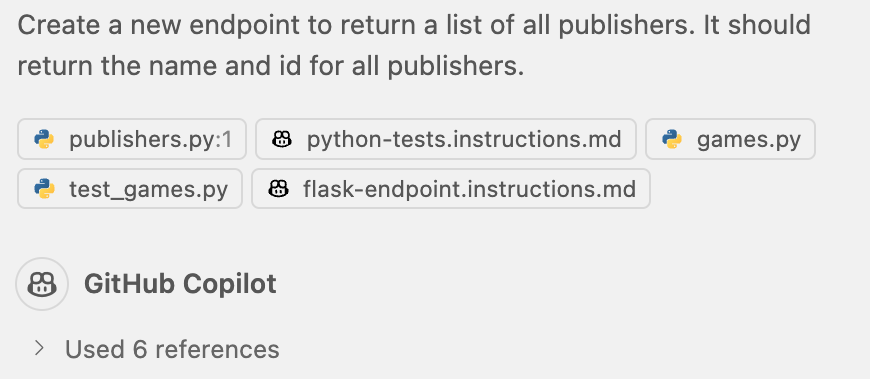
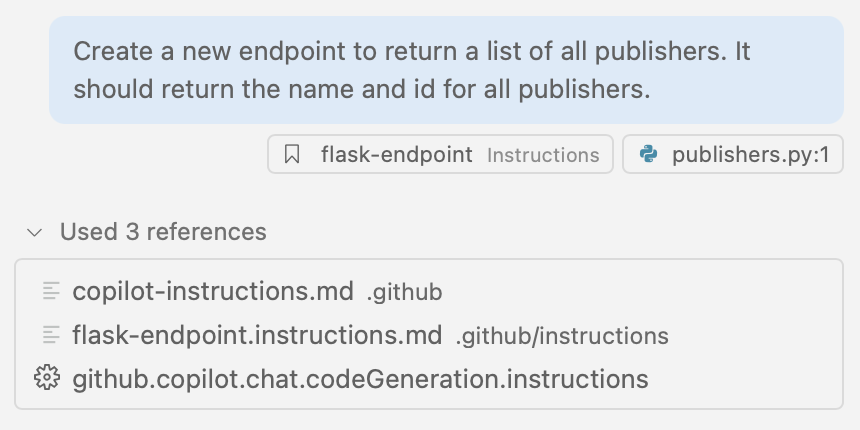
Update backtick to bold. Add a note on using agent mode if encountering issues. Update screenshot to align with recent UI updates.

diff --git a/docs/3-custom-instructions.md b/docs/3-custom-instructions.md
@@ -7,7 +7,7 @@ Context is key across many aspects of life, and when working with generative AI.
 
 In this exercise, you will learn how to:
 
-- provide Copilot with project-specific context, coding guidelines and documentation standards using custom instructions `.github/copilot-instructions.md`.
+- provide Copilot with project-specific context, coding guidelines and documentation standards using custom instructions **.github/copilot-instructions.md**.
 - use instruction files to guide Copilot for repetitive or templated tasks.
 - implement both repository-wide instructions and task-specific instructions.
 
@@ -39,8 +39,8 @@ Custom instructions allow you to provide context and preferences to Copilot chat
 
 There are two types of instructions files:
 
-- `.github/copilot-instructions.md`, a single instruction file sent to Copilot for **every** chat prompt. This file should contain project-level information, context which is relevant for every message. This could include the tech stack being used, an overview of what's being built, or global guidance for Copilot.
-- `.instructions.md` can be created for specific tasks or file types. You can use `.instructions.md` files to provide guidelines for particular languages (like Python or TypeScript), or for tasks like creating a React component or a new instance of a repository pattern.
+- **.github/copilot-instructions.md**, a single instruction file sent to Copilot for **every** chat prompt. This file should contain project-level information, context which is relevant for every message. This could include the tech stack being used, an overview of what's being built, or global guidance for Copilot.
+- **.instructions.md** can be created for specific tasks or file types. You can use **.instructions.md** files to provide guidelines for particular languages (like Python or TypeScript), or for tasks like creating a React component or a new instance of a repository pattern.
 
 > [!NOTE]
 > When working in your IDE, instructions files are only used for code generation in Copilot Chat, and not used for code completions.
@@ -75,12 +75,12 @@ To see the impact of custom instructions, we will start by sending a prompt with
 
 ## Add global standards to copilot-instructions.md
 
-As highlighted previously, `copilot-instructions.md` is designed to provide project-level information to Copilot. Let's ensure global coding standards are documented to improve code suggestions from Copilot chat.
+As highlighted previously, **copilot-instructions.md** is designed to provide project-level information to Copilot. Let's ensure global coding standards are documented to improve code suggestions from Copilot chat.
 
 1. Return to your codespace.
 2. Open **.github/copilot-instructions.md**.
-3. Explore the file, noting the brief description of the project and sections for `Code standards`, `Scripts` and `GitHub Actions Workflows`. These are applicable to any interactions we'd have with Copilot, are robust, and provide clear guidance on what we're doing and how we want to accomplish it.
-4. Locate the `### Global language guidance` section, which should be around like 16. Note how it contains a note to use type hints. That's why we saw those in the code generated previously.
+3. Explore the file, noting the brief description of the project and sections for **Code standards**, **Scripts** and **GitHub Actions Workflows**. These are applicable to any interactions we'd have with Copilot, are robust, and provide clear guidance on what we're doing and how we want to accomplish it.
+4. Locate the **Global language guidance** section, which should be around like 16. Note how it contains a note to use type hints. That's why we saw those in the code generated previously.
 5. Add the following lines of markdown right below the note about type hints to instruct Copilot to add comment headers to files and docstrings:
 
    ```markdown
@@ -127,12 +127,12 @@ From this section, you explored how the custom instructions file has provided Co
 
 ## Instruction files for tasks
 
-Coding is often repetitive, with developers performing similar tasks on a regular basis. Copilot is wonderful for allowing you to offload these types of tasks. But these types of tasks, like adding an endpoint, creating a component, or adding a new service pattern implementation often require a particular template or structure to be followed. Instruction files allow you to provide specific requirements for these types of tasks. They can be added manually when using Copilot Chat, or can have an `applyTo:` tag added to the top of the file to have Copilot automatically use them for specific files.
+Coding is often repetitive, with developers performing similar tasks on a regular basis. Copilot is wonderful for allowing you to offload these types of tasks. But these types of tasks, like adding an endpoint, creating a component, or adding a new service pattern implementation often require a particular template or structure to be followed. Instruction files allow you to provide specific requirements for these types of tasks. They can be added manually when using Copilot Chat, or can have an **applyTo:** tag added to the top of the file to have Copilot automatically use them for specific files.
 
 We want to create a new endpoint to list all publishers, and to follow the same pattern we used for the existing [games endpoints][games-endpoints], and to create tests which follow the same pattern as the existing [games endpoints tests][games-tests]. An instruction file has already been created; let's explore it and see the difference in code it generates.
 
 1. Open **.github/instructions/python-tests.instructions.md**.
-2. Note the `applyTo:` section at the top, which contains a filter for all files in the **server/tests** directory which start with **test_** and have a **.py** extension. Whenever Copilot Chat interacts with a file which matches this pattern it will automatically use the guidance provided in this file.
+2. Note the **applyTo:** section at the top, which contains a filter for all files in the **server/tests** directory which start with **test_** and have a **.py** extension. Whenever Copilot Chat interacts with a file which matches this pattern it will automatically use the guidance provided in this file.
 3. Note the file contains guidance about how tests should be created, and how to utilize SQLite when testing database functionality.
 4. Open **.github/instructions/flask-endpoint.instructions.md**.
 5. Review the following entries inside the instruction file, which includes:
@@ -143,9 +143,12 @@ We want to create a new endpoint to list all publishers, and to follow the same 
 
 6. Return to **server/routes/publishers.py** to ensure focus is set correctly.
 7. Return to Copilot Chat and select **New Chat** to start a new session.
-8. Select **Edit** from the mode dropdown, which will allow Copilot to update multiple files.
+8. Select **Edit** from the mode dropdown, which will allow Copilot to update multiple files. 
 
    ![Screenshot of the Edit mode being highlighted in the Copilot Chat panel](images/copilot-edits.png)
+
+> [!NOTE]
+> If you have any issues running the tests in this part of the exercise, please undo your changes and retry from the above step using **Agent** mode instead.
 
 9. Select the **Add Context** button to open the context dialog
 10. If prompted to allow the codespace to see text and images copied to the clipboard, select **Allow**.
@@ -164,12 +167,12 @@ We want to create a new endpoint to list all publishers, and to follow the same 
    Create a new endpoint to return a list of all publishers. It should return the name and id for all publishers.
    ```
 
-14. Note the **References** section, and how **games.py**, **test_games.py**, and **python-tests.instructions.md** were all included in call to Copilot.
+14. Note the **References** section and how it uses the **flask-endpoint.instructions.md** file to provide context. When you use instructions files with Copilot agent mode, you will notice that Copilot explicitly explores and reads the files referenced in the instructions file.
 
-   ![Screenshot of the references section, showing the included files of games.py, test_games.py, and python-tests.instructions.md](./images/copilot-instructions-references.png)
+   ![Screenshot of the references section, showing the included instructions file](./images/copilot-instructions-references.png)
 
-15. Copilot generates the files. Notice how it generates updates across multiple files, like **games.py** and **test_games.py**
-16. After reviewing the code, select **Keep** and **Done** in Copilot Chat to accept the changes.
+15. Copilot generates the files. Notice how it generates updates across multiple files, like **publishers.py** and **test_publishers.py**
+16. After reviewing the code, select **Keep** in Copilot Chat to accept the changes.
 17. Open a terminal window by selecting <kbd>Ctl</kbd>+<kbd>\`</kbd>.
 18. Run the tests by running the script with the following command:
 
@@ -177,22 +180,17 @@ We want to create a new endpoint to list all publishers, and to follow the same 
    ./scripts/run-server-tests.sh
    ```
 
-19. Ensure all tests pass. If any tests fail, feel free to prompt Copilot Chat as needed, asking it to update the code based on the error messages you see.
-
-> [!TIP]
-> Copy and paste the error message from the console window into the chat window to provide context! You can also use the `@terminal /explain` directive in Copilot Chat to ask Copilot to explain the last messages received in your terminal window.
-
-20. Once the code is correct, and all tests pass, open the **Source Control** panel on the left of the Codespace and review the changes made by Copilot.
-21. Stage the changes by selecting the **+** icon in the **Source Control** panel.
-22. Generate a commit message using the **Sparkle** button.
+19. Once the code is correct, and all tests pass, open the **Source Control** panel on the left of the Codespace and review the changes made by Copilot.
+20. Stage the changes by selecting the **+** icon in the **Source Control** panel.
+21. Generate a commit message using the **Sparkle** button.
 
     ![Screenshot of the Source Control panel showing the changes made](images/source-control-changes.png)
 
-23. Commit the changes to your repository by selecting **Commit**.
+22. Commit the changes to your repository by selecting **Commit**.
 
 ## Summary and next steps
 
-Congratulations! You explored how to ensure Copilot has the right context to generate code following the practices your organization has set forth. This can be done at a repository level with the `.github/copilot-instructions.md` file, or on a task basis with instruction files. You explored how to:
+Congratulations! You explored how to ensure Copilot has the right context to generate code following the practices your organization has set forth. This can be done at a repository level with the **.github/copilot-instructions.md** file, or on a task basis with instruction files. You explored how to:
 
 - provide Copilot with project-specific context, coding guidelines and documentation standards using custom instructions (.github/copilot-instructions.md).
 - use instruction files to guide Copilot for repetitive or templated tasks.
